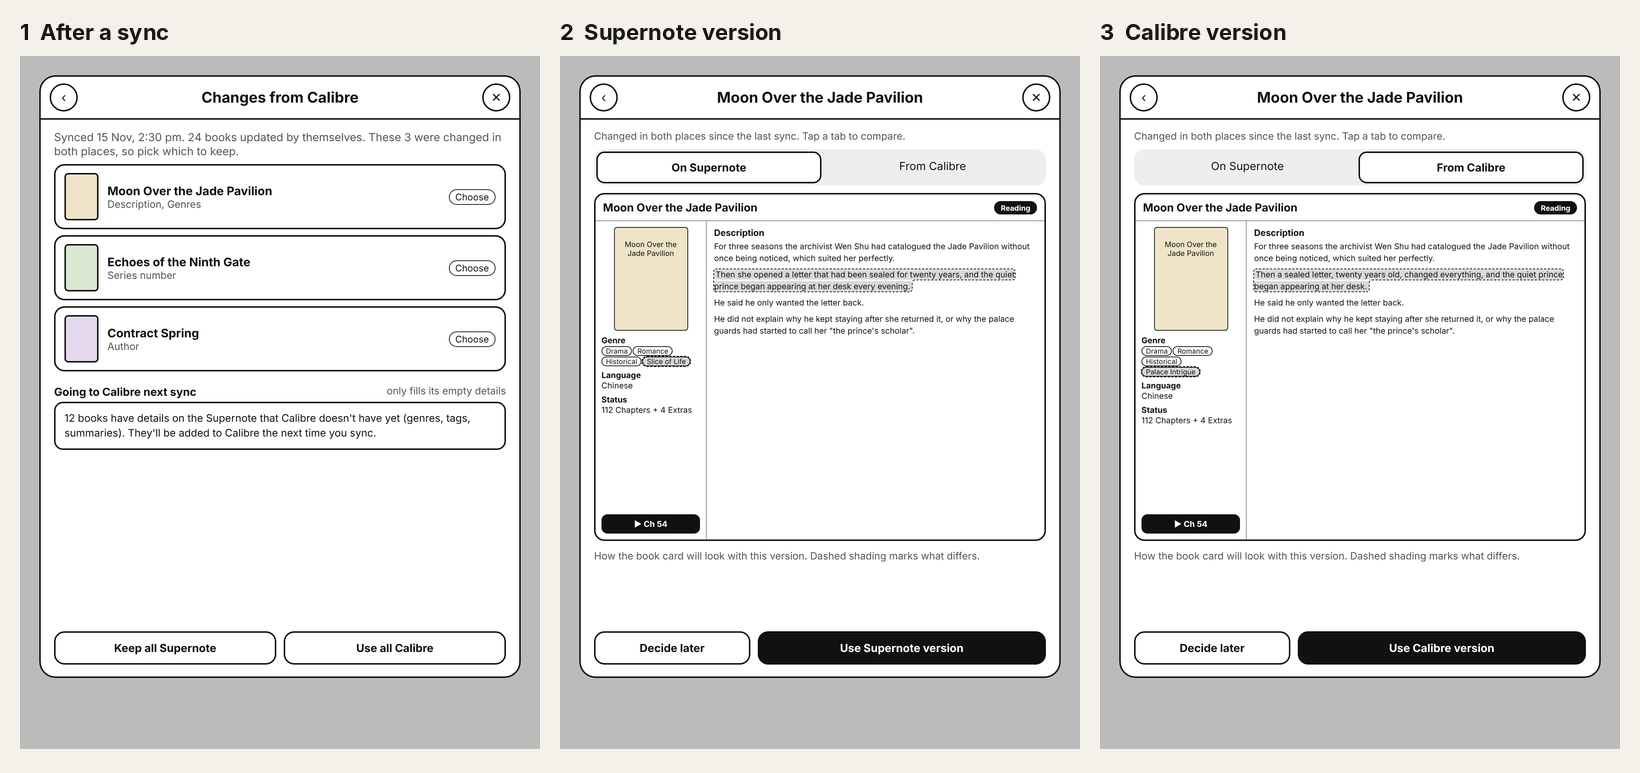
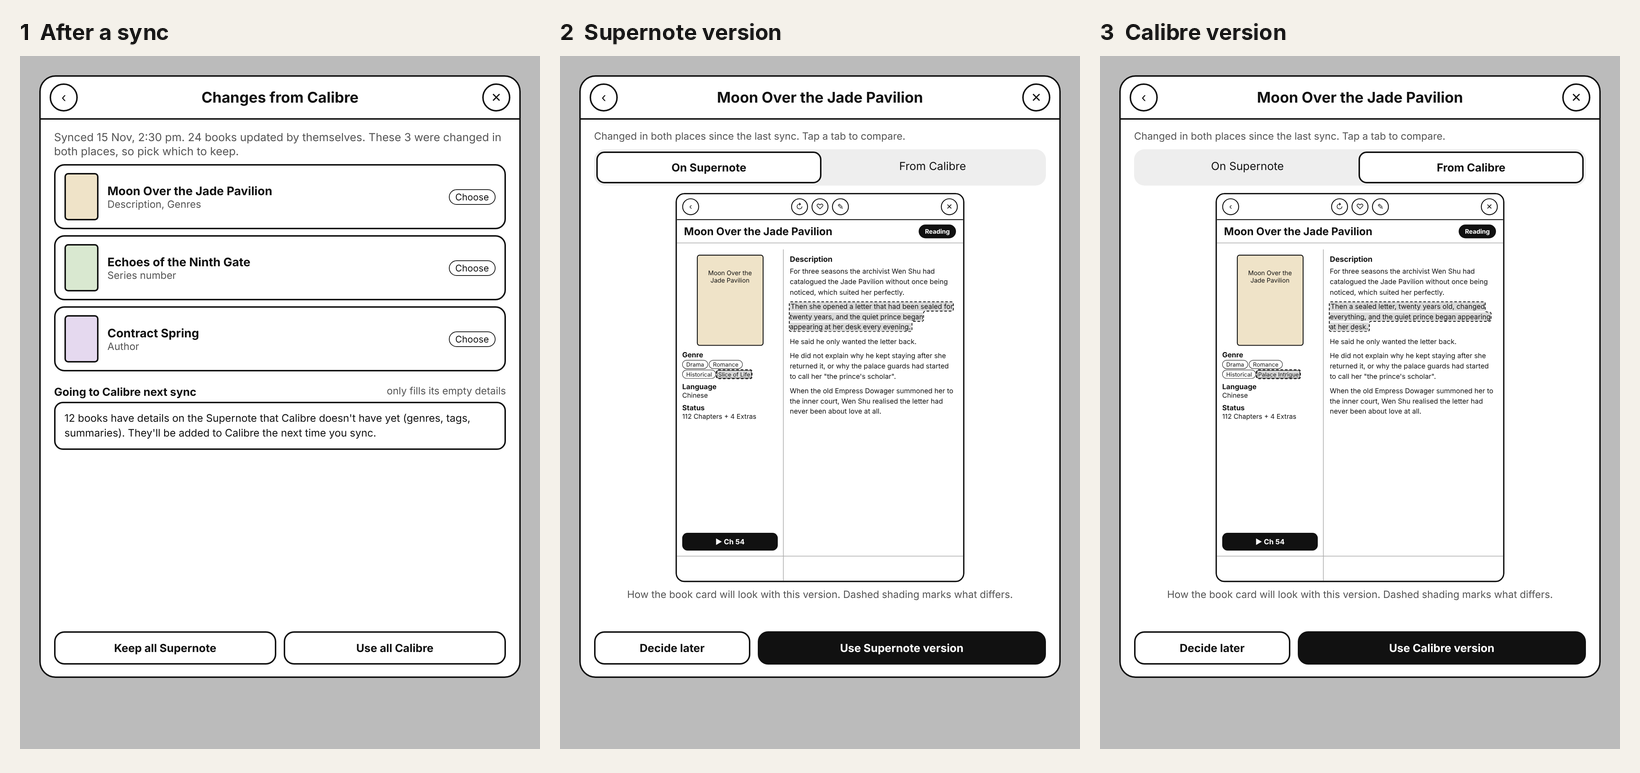
Mockup: preview card at the real card's proportions
Claude-Session: https://claude.ai/code/session_01X56ddDHNWUKJn2BBuoFg9X

diff --git a/tools/mockups/sync.html b/tools/mockups/sync.html
@@ -30,6 +30,22 @@
 .mini .play{position:absolute;left:8px;right:8px;bottom:8px;background:#111;color:#fff;border-radius:8px;text-align:center;font-weight:700;font-size:11px;padding:6px}
 .mini h4{font-size:12px;margin-bottom:4px}
 .diff{background:#d9d9d9;border-radius:3px;padding:0 2px;outline:1.5px dashed #111}
+.mw{width:390px;height:526px;margin:8px auto 0;overflow:hidden;border-radius:12px}
+.mw .full{width:650px;height:876px;transform:scale(0.6);transform-origin:top left;border:3px solid #111;border-radius:20px;background:#fff;position:relative;overflow:hidden;font-size:15px}
+.full .tb{height:58px;border-bottom:2px solid #111;display:flex;align-items:center;justify-content:space-between;padding:0 12px}
+.full .tt{display:flex;justify-content:space-between;align-items:center;padding:10px 16px;border-bottom:1px solid #888}
+.full .tt b{font-size:24px}.full .st{border:2px solid #111;border-radius:16px;padding:5px 12px;font-size:14px;font-weight:700;background:#111;color:#fff}
+.full .cols{position:absolute;top:124px;bottom:0;left:0;right:0;display:flex}
+.full .fl{width:240px;border-right:1px solid #888;padding:12px;position:relative}
+.full .fr{flex:1;padding:12px 14px;position:relative}
+.full .fcov{width:150px;height:205px;border:2px solid #111;border-radius:6px;background:#efe3c8;margin:0 auto 10px;text-align:center;padding:30px 10px;font-size:14px}
+.full .lab{font-weight:700;font-size:16px;margin-top:8px}
+.full .chip{display:inline-block;border:1.5px solid #111;border-radius:12px;padding:1px 8px;font-size:13px;margin:2px 2px 0 0}
+.full p{font-size:15.5px;line-height:1.5;margin-bottom:9px}
+.full h4{font-size:17px;margin-bottom:6px}
+.full .play{position:absolute;left:12px;right:12px;bottom:68px;background:#111;color:#fff;border-radius:12px;text-align:center;font-weight:700;font-size:16px;padding:10px}
+.full .pg{position:absolute;left:0;right:0;bottom:0;height:56px;border-top:1px solid #888}
+.full .diff{background:#d9d9d9;outline:2.5px dashed #111;border-radius:3px;padding:0 2px}
 </style></head><body>
 <div class="f" id="a"><div class="card">
  <div class="bar"><div class="ib">‹</div><b style="font-size:20px">Changes from Calibre</b><div class="ib">✕</div></div>
@@ -48,17 +64,20 @@
  <div class="pad">
   <div class="sub">Changed in both places since the last sync. Tap a tab to compare.</div>
   <div class="seg"><div class="on">On Supernote</div><div>From Calibre</div></div>
-  <div class="mini"><div class="mt"><b>Moon Over the Jade Pavilion</b><span class="st">Reading</span></div>
- <div class="mc"><div class="ml"><div class="mcov">Moon Over the Jade Pavilion</div>
+  <div class="mw"><div class="full">
+ <div class="tb"><div class="ib">‹</div><div style="display:flex;gap:8px"><div class="ib">↻</div><div class="ib">♡</div><div class="ib">✎</div></div><div class="ib">✕</div></div>
+ <div class="tt"><b>Moon Over the Jade Pavilion</b><span class="st">Reading</span></div>
+ <div class="cols"><div class="fl"><div class="fcov">Moon Over the Jade Pavilion</div>
   <div class="lab">Genre</div><div><span class="chip">Drama</span><span class="chip">Romance</span><span class="chip">Historical</span><span class="chip diff">Slice of Life</span></div>
   <div class="lab">Language</div><div>Chinese</div><div class="lab">Status</div><div>112 Chapters + 4 Extras</div>
-  <div class="play">&#9654; Ch 54</div></div>
- <div class="mr"><h4>Description</h4>
+  <div class="play">&#9654; Ch 54</div><div class="pg"></div></div>
+ <div class="fr"><h4>Description</h4>
   <p>For three seasons the archivist Wen Shu had catalogued the Jade Pavilion without once being noticed, which suited her perfectly.</p>
   <p><span class="diff">Then she opened a letter that had been sealed for twenty years, and the quiet prince began appearing at her desk every evening.</span></p>
   <p>He said he only wanted the letter back.</p>
-  <p>He did not explain why he kept staying after she returned it, or why the palace guards had started to call her "the prince's scholar".</p></div></div></div>
-  <div class="sub" style="margin-top:12px">How the book card will look with this version. Dashed shading marks what differs.</div>
+  <p>He did not explain why he kept staying after she returned it, or why the palace guards had started to call her "the prince's scholar".</p>
+  <p>When the old Empress Dowager summoned her to the inner court, Wen Shu realised the letter had never been about love at all.</p><div class="pg"></div></div></div></div></div>
+  <div class="sub" style="margin-top:8px;text-align:center">How the book card will look with this version. Dashed shading marks what differs.</div>
  </div>
  <div class="foot"><div class="btn" style="flex:1">Decide later</div><div class="btn dark" style="flex:2">Use Supernote version</div></div>
 </div></div>
@@ -67,17 +86,20 @@
  <div class="pad">
   <div class="sub">Changed in both places since the last sync. Tap a tab to compare.</div>
   <div class="seg"><div>On Supernote</div><div class="on">From Calibre</div></div>
-  <div class="mini"><div class="mt"><b>Moon Over the Jade Pavilion</b><span class="st">Reading</span></div>
- <div class="mc"><div class="ml"><div class="mcov">Moon Over the Jade Pavilion</div>
+  <div class="mw"><div class="full">
+ <div class="tb"><div class="ib">‹</div><div style="display:flex;gap:8px"><div class="ib">↻</div><div class="ib">♡</div><div class="ib">✎</div></div><div class="ib">✕</div></div>
+ <div class="tt"><b>Moon Over the Jade Pavilion</b><span class="st">Reading</span></div>
+ <div class="cols"><div class="fl"><div class="fcov">Moon Over the Jade Pavilion</div>
   <div class="lab">Genre</div><div><span class="chip">Drama</span><span class="chip">Romance</span><span class="chip">Historical</span><span class="chip diff">Palace Intrigue</span></div>
   <div class="lab">Language</div><div>Chinese</div><div class="lab">Status</div><div>112 Chapters + 4 Extras</div>
-  <div class="play">&#9654; Ch 54</div></div>
- <div class="mr"><h4>Description</h4>
+  <div class="play">&#9654; Ch 54</div><div class="pg"></div></div>
+ <div class="fr"><h4>Description</h4>
   <p>For three seasons the archivist Wen Shu had catalogued the Jade Pavilion without once being noticed, which suited her perfectly.</p>
   <p><span class="diff">Then a sealed letter, twenty years old, changed everything, and the quiet prince began appearing at her desk.</span></p>
   <p>He said he only wanted the letter back.</p>
-  <p>He did not explain why he kept staying after she returned it, or why the palace guards had started to call her "the prince's scholar".</p></div></div></div>
-  <div class="sub" style="margin-top:12px">How the book card will look with this version. Dashed shading marks what differs.</div>
+  <p>He did not explain why he kept staying after she returned it, or why the palace guards had started to call her "the prince's scholar".</p>
+  <p>When the old Empress Dowager summoned her to the inner court, Wen Shu realised the letter had never been about love at all.</p><div class="pg"></div></div></div></div></div>
+  <div class="sub" style="margin-top:8px;text-align:center">How the book card will look with this version. Dashed shading marks what differs.</div>
  </div>
  <div class="foot"><div class="btn" style="flex:1">Decide later</div><div class="btn dark" style="flex:2">Use Calibre version</div></div>
 </div></div>
